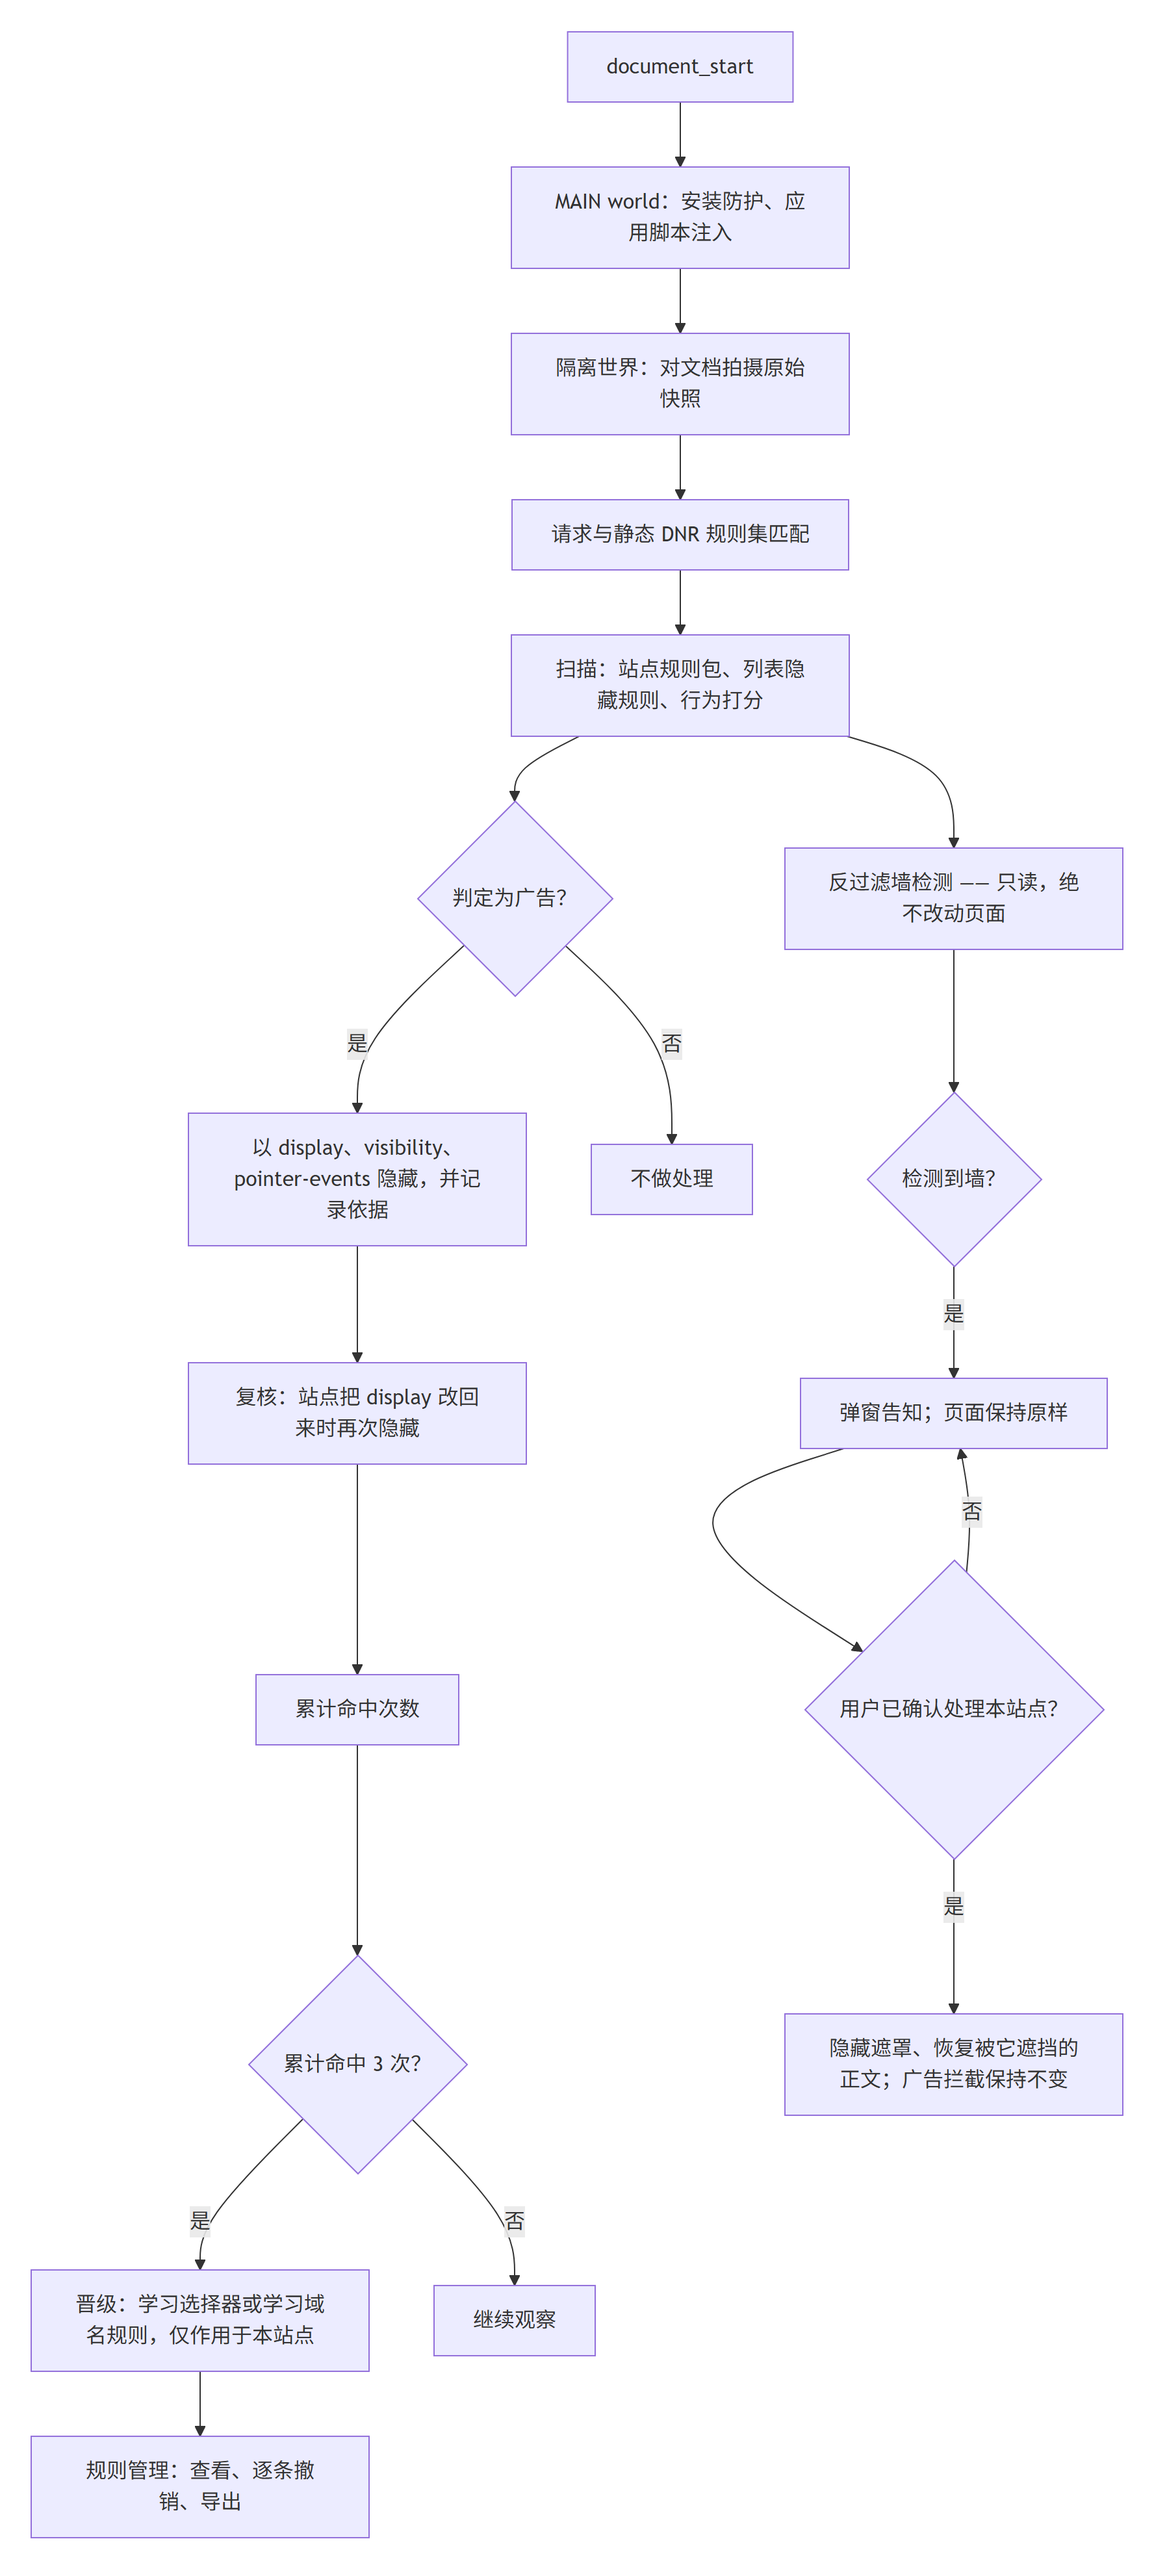
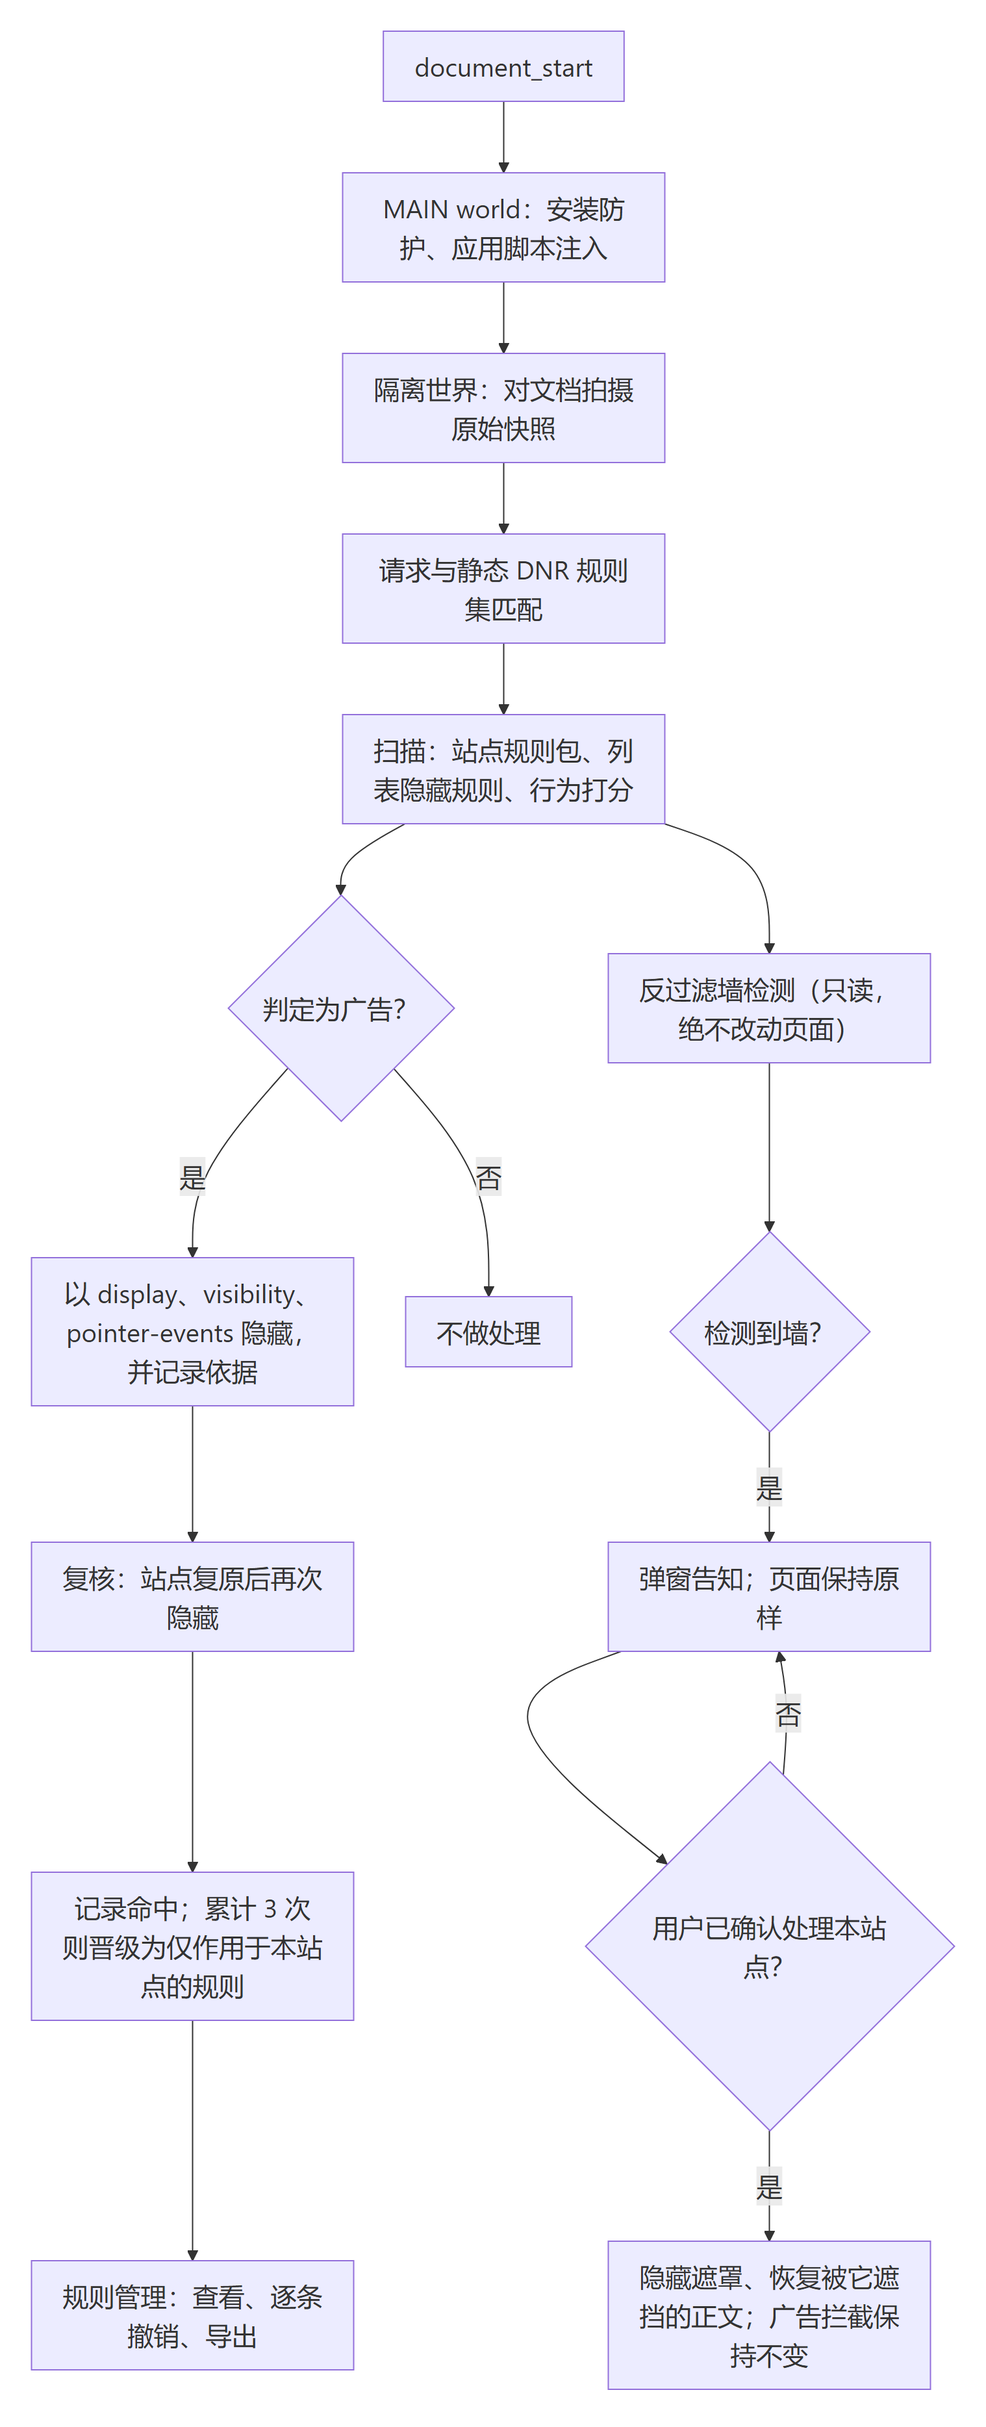
fix(readme): 优化两张图的可读性，并删除图下方的说明行
## 问题

图能显示了，但架构图看着乱、字太小。量化后原因清楚：

1. **图太宽**：架构图固有宽度 2088px，而 GitHub 正文列宽约 830px，被压缩到约 0.4 倍，
   20px 的字实际只有 6–9px；节点标签越长，节点越宽，缩得越狠——所以"把字号调大"没用，
   字号大了节点同步变宽，缩放一抵消就回到原点。真正的杠杆是**缩短标签**。
2. **布局散**：三个子图被并排摆放（Mermaid 在子图间没有连线时会这样），跨层连线也因此拉长。

## 改法

- 标签压缩到最短（"Background service worker"→"Service worker"、"Anti-adblock wall detection"
  →"Wall detection"、"隐藏分片（256 个）按需下发"→"隐藏分片 x256" 等），宽度主要由文字决定，
  压缩后架构图 2088 → 1369 → **1181px**（中文 1071px），显示时约 0.7 倍，有效字号约 14px（原 6–9px）。
- 三个子图内统一 `direction TB` 竖向堆叠，并加一条**不可见连线** `hiding ~~~ guards`
  强制隔离世界与 MAIN world 上下排列，消除并排造成的横向铺开。
- 流程图节点由 20 个减到 15 个（合并"记录命中/3 次晋级"等步骤），高度 2471 → 2005px。
- 渲染参数：字号 20px、显式指定中文字体（Microsoft YaHei）、加大节点与层间距。

## 其它

按用户要求删除两张图下面的"图源/Source"说明行；显示宽度调整为架构图 830px、流程图 780px
（接近正文列宽，避免二次缩小）。

## 验证

- 渲染尺寸：架构 1181x952（英）/1071x982（中），流程 786x2005（英）/727x1831（中）
- PNG 内容检查：非白像素 27%–57%、颜色数 5122–7985，无空白图
- 689 项测试通过；README 校验通过

diff --git a/README.md b/README.md
@@ -218,15 +218,11 @@ public/            manifest, _locales, icons
 
 ### Architecture
 
-<img src="docs/diagrams/architecture-en.png" width="880" alt="AdBlow architecture: filter lists compiled into rulesets and hiding shards, four layers from the service worker down to the MAIN world">
-
-*Source: [`architecture-en.mmd`](docs/diagrams/architecture-en.mmd). Rendered with Mermaid into a committed PNG, so it also displays where GitHub's client-side Mermaid does not run.*
+<img src="docs/diagrams/architecture-en.png" width="830" alt="AdBlow architecture: filter lists compiled into rulesets and hiding shards, four layers from the service worker down to the MAIN world">
 
 ### Request and judgement flow
 
-<img src="docs/diagrams/flow-en.png" width="560" alt="AdBlow request and judgement flow, including the point where an anti-adblock wall waits for the user to confirm">
-
-*Source: [`flow-en.mmd`](docs/diagrams/flow-en.mmd). Rendered with Mermaid into a committed PNG.*
+<img src="docs/diagrams/flow-en.png" width="780" alt="AdBlow request and judgement flow, including the point where an anti-adblock wall waits for the user to confirm">
 
 ## Safety invariants
 

diff --git a/README.zh-CN.md b/README.zh-CN.md
@@ -198,15 +198,11 @@ public/            manifest、_locales、图标
 
 ### 架构
 
-<img src="docs/diagrams/architecture-zh.png" width="880" alt="AdBlow 系统架构：过滤列表编译为规则集与隐藏分片，四层从后台 service worker 一直到 MAIN world">
-
-*图源：[`architecture-zh.mmd`](docs/diagrams/architecture-zh.mmd)。用 Mermaid 渲染为 PNG 一并提交，因此在 GitHub 客户端 Mermaid 不生效的环境下也能正常显示。*
+<img src="docs/diagrams/architecture-zh.png" width="830" alt="AdBlow 系统架构：过滤列表编译为规则集与隐藏分片，四层从后台 service worker 一直到 MAIN world">
 
 ### 处理流程
 
-<img src="docs/diagrams/flow-zh.png" width="560" alt="AdBlow 处理流程，含反过滤墙等待用户确认的环节">
-
-*图源：[`flow-zh.mmd`](docs/diagrams/flow-zh.mmd)。用 Mermaid 渲染为提交的 PNG。*
+<img src="docs/diagrams/flow-zh.png" width="780" alt="AdBlow 处理流程，含反过滤墙等待用户确认的环节">
 
 ## 安全约束
 
